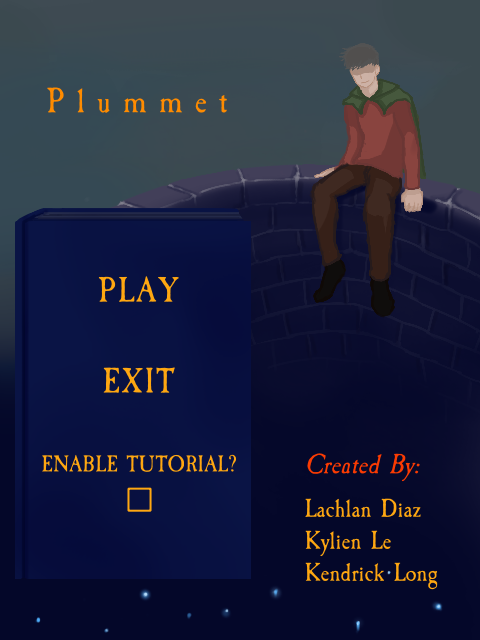
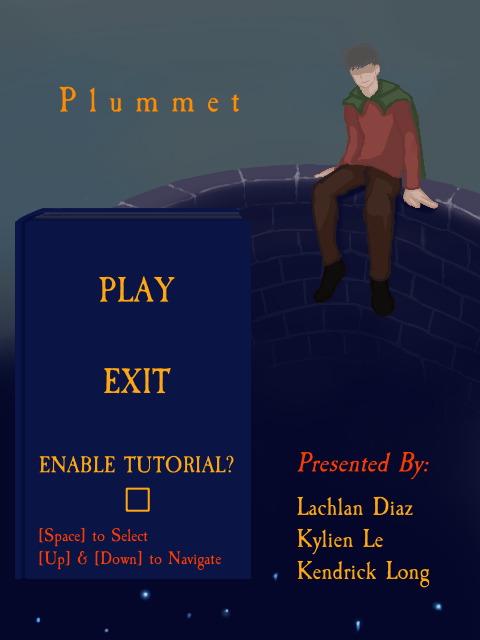
implemented menu screen

diff --git a/src/scenes/Play2.js b/src/scenes/Play2.js
@@ -6,7 +6,7 @@ class Play2 extends Phaser.Scene {
     preload() {
         this.load.image('rocket', './assets/rocket.png');
         this.load.image('spaceship', './assets/spaceship.png');
-        this.load.image('well', './assets/well.png');
+        this.load.image('cave', './assets/bg_02.png');
         this.load.image('player', './assets/Asteriod(Round).png');
         this.load.image('splat', './assets/splat.png');
         this.load.image('block', './assets/block.png');
@@ -16,7 +16,7 @@ class Play2 extends Phaser.Scene {
             scenes but we may want to create a separate load.js if we use dif scenes for tutorial(well)/game(cave)
         */
         this.load.atlas('sprite_atlas', './assets/sprite_atlas.png', './assets/sprites.json');
-        this.load.audio('bgm_01', './assets/Falling.wav');
+        this.load.audio('bgm_02', './assets/Cave.wav');
         this.load.audio('flap', './assets/Flap.wav');
         this.load.audio('death_sound', './assets/Collisionbreak.wav');
 
@@ -37,13 +37,13 @@ class Play2 extends Phaser.Scene {
 
         this.fall_distance = 0;
 
-        //place well background
-        this.well = this.add.tileSprite(0, 0, game.config.width, game.config.height, 'well').setOrigin(0, 0);
+        //place cave background
+        this.cave = this.add.tileSprite(0, 0, game.config.width, game.config.height, 'cave').setOrigin(0, 0);
 
         this.add.image(game.config.width/2, 40, 'border').setScale(0.5);
 
         //add music and play
-        this.bgMusic = this.sound.add('bgm_01', {volume: 0.25});
+        this.bgMusic = this.sound.add('bgm_02', {volume: 0.25});
         this.bgMusic.loop = true;
         this.bgMusic.play();
 
@@ -167,7 +167,7 @@ class Play2 extends Phaser.Scene {
 
     addBranch() {
         let invert = Phaser.Math.Between(0, 1);
-        let branch = new Branch(this, invert);
+        let branch = new glowBranch(this, invert);
         branch.setSize(130, 5, true);
         this.branchGroup.add(branch);
     }
@@ -227,11 +227,11 @@ class Play2 extends Phaser.Scene {
             }
                 
             if (!this.jumped && !this.apex) {
-                this.well.tilePositionY += this.moveSpeed;
+                this.cave.tilePositionY += this.moveSpeed;
                 // this.branch01.setVelocityY(-this.moveSpeed * 60);       //branch velocity updated every frame
             } else if (this.jumped && !this.apex) {
                                             //jump anim
-                this.well.tilePositionY += this.moveSpeed;
+                this.cave.tilePositionY += this.moveSpeed;
                 this.moveSpeed -= (fallspeed / 10);
                 // this.branch01.setVelocityY(-this.moveSpeed * 60);
                 //console.log (this.moveSpeed);
@@ -241,7 +241,7 @@ class Play2 extends Phaser.Scene {
             }
 
             if (this.apex) {
-                this.well.tilePositionY += this.moveSpeed;
+                this.cave.tilePositionY += this.moveSpeed;
                 if (this.moveSpeed < fallspeed) {
                     this.moveSpeed += (fallspeed / 10);
                     // this.branch01.setVelocityY(-this.moveSpeed * 60);
@@ -269,7 +269,7 @@ class Play2 extends Phaser.Scene {
 
         }
         else {
-            this.well.tilePositionY += fallspeed;
+            this.cave.tilePositionY += fallspeed;
         }
     }
 

diff --git a/src/prefabs/glowBranch.js b/src/prefabs/glowBranch.js
@@ -1,0 +1,54 @@
+class glowBranch extends Phaser.Physics.Arcade.Sprite {
+    constructor(scene, invert, frame) {
+        super(scene, (invert === 0) ? 400 : 80,  game.config.height + 500, 'sprite_atlas', 'branch02').setScale(), frame;
+
+        this.jumped = false;
+        this.apex = false;
+        this.moveSpeed = fallspeed; //pixels per frame
+        scene.add.existing(this);
+        scene.physics.add.existing(this);
+        this.setCollideWorldBounds(false);
+        this.body.allowGravity = false;
+        this.setVelocityY(-this.moveSpeed * 60);
+        this.setMaxVelocity(0, 1000000);
+         if (invert === 1) {
+            this.setFlip(true, false);
+         }
+    }
+
+
+
+
+    update() {
+
+        if (!this.jumped && !this.apex) {
+            this.setVelocityY(-this.moveSpeed * 60);       //branch velocity updated every frame
+        } else if (this.jumped && !this.apex) {
+            this.moveSpeed -= (fallspeed / 10);
+            this.setVelocityY(-this.moveSpeed * 60);
+            if (this.moveSpeed < (fallspeed * -1.5)) {
+                this.apex = true;
+            }
+        }
+
+        if (this.apex) {
+            if (this.moveSpeed < fallspeed) {
+                this.moveSpeed += (fallspeed / 10);
+                this.setVelocityY(-this.moveSpeed * 60);
+            } else {
+                this.jumped = false;
+                this.apex = false;
+            }
+        }
+
+        if (cursors.space.isDown & !this.jumped) {
+            this.jumped = true;
+            Phaser.Input.Keyboard.JustDown(cursors.up)
+        }
+
+        // destroy branch if it reaches the top of the screen
+        if(this.y < -10) {
+            this.destroy();
+        }
+    }
+}

diff --git a/src/scenes/Menu.js b/src/scenes/Menu.js
@@ -37,19 +37,15 @@ class Menu extends Phaser.Scene {
 
         this.add_pointer();
 
+        this.tutorial = false;
+
         //define keys 
         keySPACE = this.input.keyboard.addKey(Phaser.Input.Keyboard.KeyCodes.SPACE);
     }
 
     update() {
         if (Phaser.Input.Keyboard.JustDown(keySPACE)) {
-            // easy mode
-            game.settings = {
-            spaceshipSpeed: 3,
-            gameTimer: Infinity    
-            }
-            this.sound.play('sfx_select');
-            this.scene.start('playScene');    
+              this.selection();
         }
 
 
@@ -84,6 +80,31 @@ class Menu extends Phaser.Scene {
         } else if (this.menu_option == 3) {
            this.pointer = this.add.image(100, 500, 'pointer');
            //this.ex = this.add.image(142, 502, 'ex').setScale(.80);
+        }
+    }
+
+    selection() {
+        if (this.menu_option == 1) {
+            game.settings = {
+                //spaceshipSpeed: 3,
+                gameTimer: Infinity    
+            }
+            this.sound.play('sfx_select');
+            if (this.tutorial == true) {
+                this.scene.start('playScene');
+            } else {
+                this.scene.start('playScene2')
+            }
+        } else if (this.menu_option == 2) {
+            close();
+        } else if (this.menu_option == 3) {
+           if (this.tutorial == true) {
+               this.tutorial = false;
+               this.ex.destroy();
+           } else {
+                this.tutorial = true;
+                this.ex = this.add.image(142, 502, 'ex').setScale(.80);
+           }
         }
     }
 }

diff --git a/index.html b/index.html
@@ -23,6 +23,7 @@
     <script src="./lib/phaser.js"></script>
     <script src="./src/prefabs/Player.js"></script>
     <script src="./src/prefabs/Branch.js"></script>
+    <script src="./src/prefabs/glowBranch.js"></script>
     <script src="./src/prefabs/Bat.js"></script>
     <script src="./src/scenes/Menu.js"></script>
     <script src="./src/scenes/Play.js"></script>

diff --git a/src/scenes/Play.js b/src/scenes/Play.js
@@ -40,14 +40,6 @@ class Play extends Phaser.Scene {
             this.scene.pause();
          });
 
-
-
-        //this.time.delayedCall(4000, () => { this.physics.world.gravity.y = 100; });
-
-
-
-
-        
         this.death_flag = false;
         this.jumped = false;
         this.apex = false;
